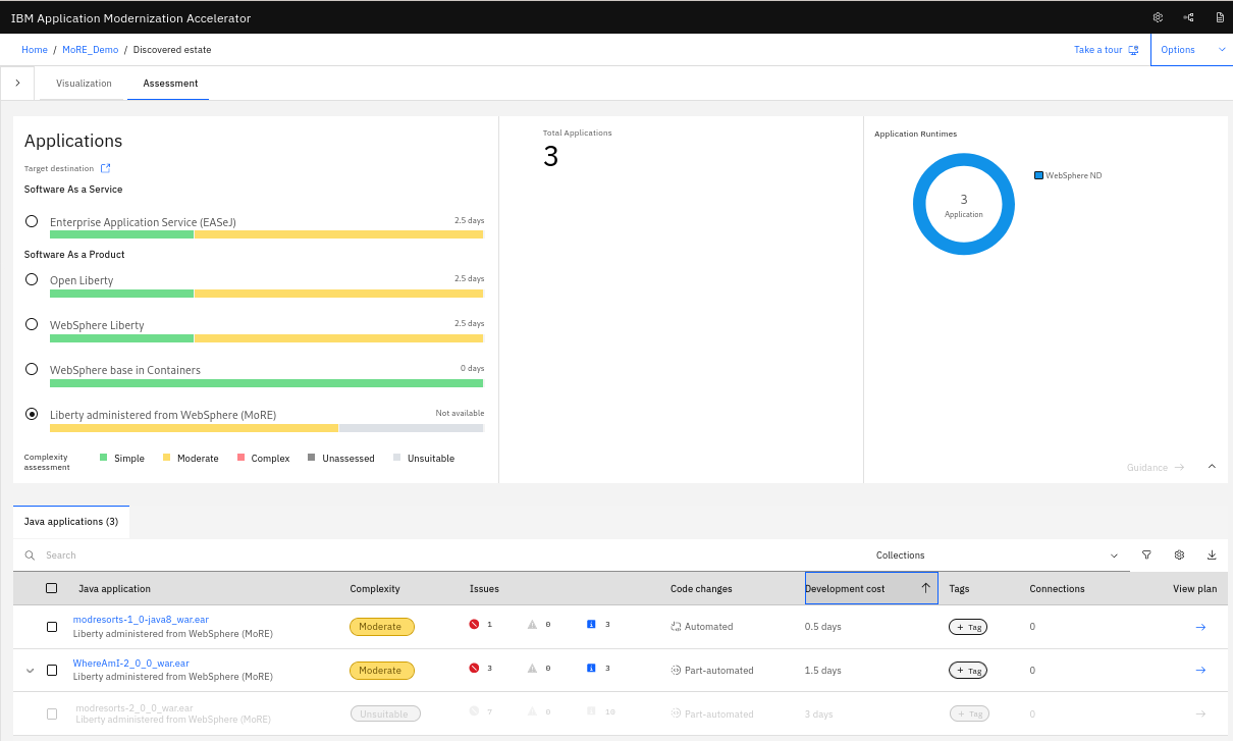
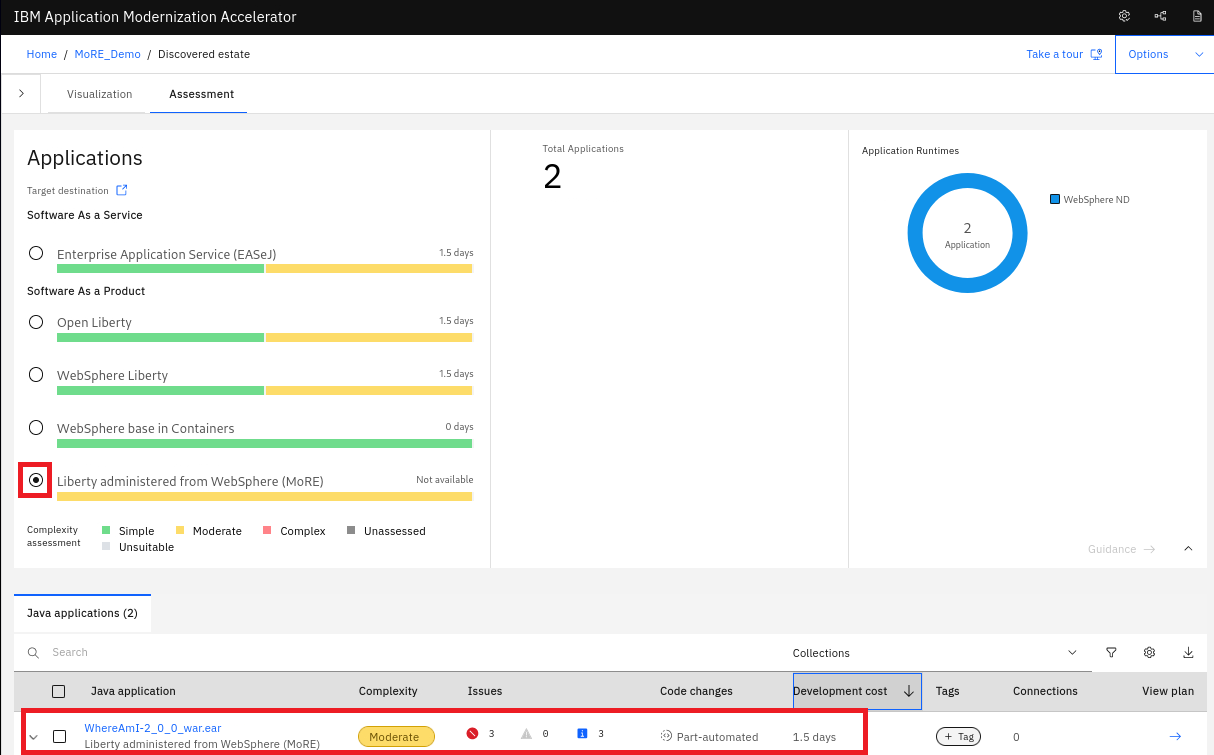
Updated text

diff --git a/README.md b/README.md
@@ -420,22 +420,41 @@ Otherwise, you will need to reserve an environment for the lab. You can obtain o
 
 			cd ~/Downloads
 			transformationadvisor-4.3.0/bin/transformationadvisor -w /home/techzone/IBM/WebSphere/AppServer/
-		Accept the license agreement when asked to do so.
+		
+	3. Enter **1** to **Accept the license agreement** when asked to do so.
 
-	3. Wait until the collection has been uploaded and is available in AMA
+		<kbd>![AMA_Collector_AcceptLicense](./images/media/AMA_Collector_AcceptLicense.png)</kbd>
+		
+
+	4. Wait until the collection has been uploaded and is available in AMA.
+
+		<kbd>![AMA_Collector_uploaded](./images/media/AMA_Collector_uploaded.png)</kbd>
+		
+6. Switch back to the browser and open the **MoRE_Demo** workspace.
+
+	<kbd>![AMA_MoRE_workspace](./images/media/AMA_MoRE_workspace.png)</kbd>
 
 
-6. Show in the **Visualization** tab that there are no dependencies to other applications
+7. AMA will open the **Visualization** tab. Click on the button to close the minimap. 
 
 	<kbd>![](./images/media/AMA_Visualization.png)</kbd>
 
-6. Switch to the **Assessment** tab that the application can be migrated to MoRE but has some issues that must be fixed.
 
-	<kbd>![](./images/media/AMA_Assessment.png)</kbd>
+8. As you can see, AMA has dsicovered two aplications. The WhereAmI application has no dependencies to other applications, databases or queues.
+
+	<kbd>![](./images/media/AMA_Visualization2.png)</kbd>
+
+	Click on the **Assessment** tab.
+
+9. You can see the assessment for the different target applications. Select as target Liberty administered from WebSphere (MoRE) and you can see, that the application can be migrated to MoRE but has some issues that must be fixed.
+
+	<kbd>![AMA_Assessment](./images/media/AMA_Assessment.png)</kbd>
 
 7. Switch back to the **Visualization** tab.
 
 </details>
+
+The preparation is now finished
 
 
 ## Demo the end-to-end flow
